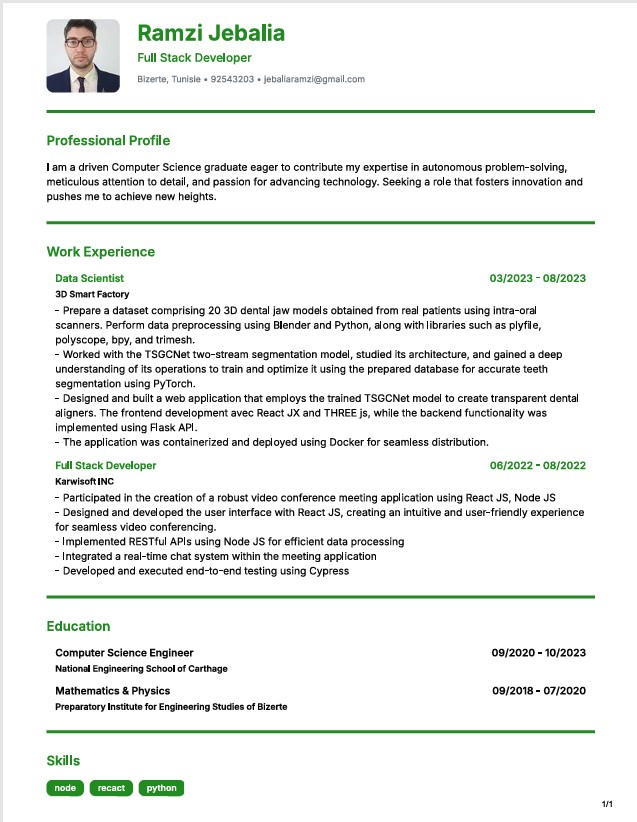
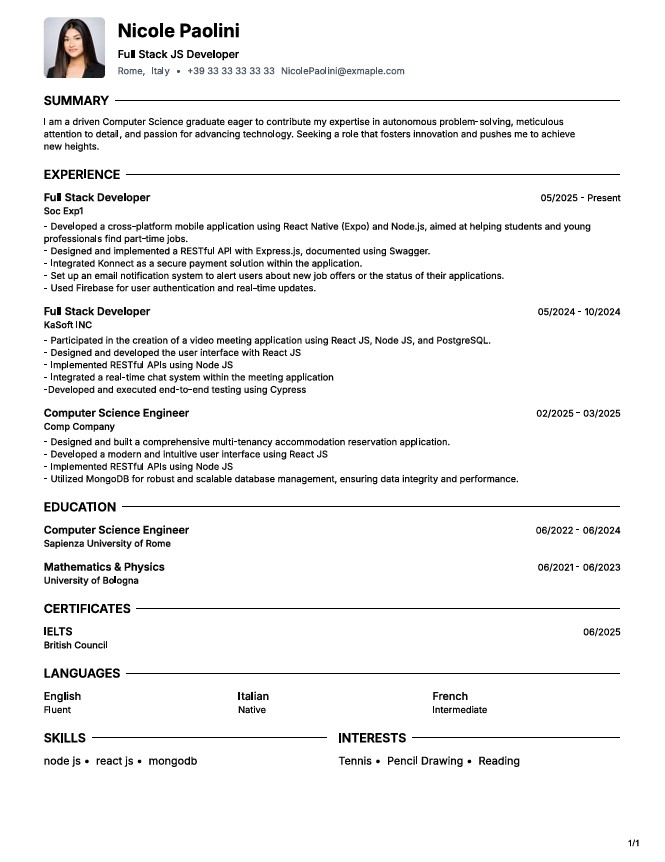
implement sections for certificates, languages, and skills/interests in ResumePreview component; refactor template styles and update layout for better presentation

Changed region(s): [[0.0, 0.0, 1.0, 1.0]]

diff --git a/aicvbuilder/components/ResumePreviewe.tsx b/aicvbuilder/components/ResumePreviewe.tsx
@@ -14,7 +14,18 @@ interface ResumePreviewProps {
     className?: string
 }
 
-const templateStyles = {
+type TemplateStyle = {
+    container: string;
+    header: string;
+    section: string;
+    sectionTitle: string;
+    sectionDivider: string;
+    sectionTitleWithLine?: string;
+    sectionTitleText?: string;
+    sectionTitleLine?: string;
+}
+
+const templateStyles: Record<string, TemplateStyle> = {
     modern: {
         container: "bg-white text-black",
         header: "flex items-center gap-4",
@@ -28,7 +39,181 @@ const templateStyles = {
         section: "space-y-4",
         sectionTitle: "text-base font-semibold mb-2",
         sectionDivider: "hidden",
+        sectionTitleWithLine: "flex items-center gap-2 mb-2",
+        sectionTitleText: "text-base font-semibold",
+        sectionTitleLine: "flex-grow border-t",
     }
+}
+
+function CertificatesSection({resumeData, template}: ResumePreviewSectionProps) {
+    const {certificates, colorHex} = resumeData
+    const styles = templateStyles[template]
+    const certificatesNotEmpty = certificates?.filter(
+        (cert) => Object.values(cert).filter(Boolean).length > 0
+    )
+
+    if(!certificatesNotEmpty?.length) return null
+
+    return (
+        <div className="break-inside-avoid">
+            <div className={template === 'two-column' ? styles.sectionTitleWithLine : "flex items-center mb-2"}>
+                <h3 className={template === 'two-column' ? styles.sectionTitleText : styles.sectionTitle} style={{color: colorHex}}>CERTIFICATES</h3>
+                <div className={template === 'two-column' ? styles.sectionTitleLine : styles.sectionDivider} style={{borderColor: colorHex}}></div>
+            </div>
+            <div className="space-y-3">
+                {certificatesNotEmpty.map((cert, index) => (
+                    <div key={index} className="break-inside-avoid">
+                        <div className="flex justify-between items-baseline">
+                            <h4 className="text-sm font-semibold">{cert.name}</h4>
+                            {cert.date && (
+                                <span className="text-xs" style={{color: colorHex}}>
+                                    {formatDate(cert.date, "MM/yyyy")}
+                                </span>
+                            )}
+                        </div>
+                        <p className="text-xs font-medium">{cert.issuer}</p>
+                        {cert.url && (
+                            <a href={cert.url} target="_blank" rel="noopener noreferrer" className="text-xs text-blue-600 hover:underline">
+                                View Certificate
+                            </a>
+                        )}
+                    </div>
+                ))}
+            </div>
+        </div>
+    )
+}
+
+function LanguagesSection({resumeData, template}: ResumePreviewSectionProps) {
+    const {languages, colorHex} = resumeData
+    const styles = templateStyles[template]
+    const languagesNotEmpty = languages?.filter(
+        (lang) => Object.values(lang).filter(Boolean).length > 0
+    )
+
+    if(!languagesNotEmpty?.length) return null
+
+    return (
+        <div className="break-inside-avoid">
+            <div className={template === 'two-column' ? styles.sectionTitleWithLine : "flex items-center mb-2"}>
+                <h3 className={template === 'two-column' ? styles.sectionTitleText : styles.sectionTitle} style={{color: colorHex}}>LANGUAGES</h3>
+                <div className={template === 'two-column' ? styles.sectionTitleLine : styles.sectionDivider} style={{borderColor: colorHex}}></div>
+            </div>
+            <div className={template === 'two-column' ? "space-y-1" : "grid grid-cols-3 gap-2"}>
+                {languagesNotEmpty.map((lang, index) => (
+                    <div key={index} className={template === 'two-column' ? "flex justify-between items-center" : "flex flex-col"}>
+                        <span className="text-sm font-medium">{lang.name}</span>
+                        <span className="text-xs" style={{color: colorHex}}>{lang.level}</span>
+                    </div>
+                ))}
+            </div>
+        </div>
+    )
+}
+
+function SkillsAndInterestsSection({resumeData, template}: ResumePreviewSectionProps) {
+    const {skills = [], interests = [], colorHex} = resumeData
+    const styles = templateStyles[template]
+    const hasSkills = skills.length > 0
+    const hasInterests = interests.length > 0
+
+    if(!hasSkills && !hasInterests) return null
+
+    if (template === 'two-column') {
+        return (
+            <div className="break-inside-avoid space-y-4">
+                {/* Skills Section */}
+                {hasSkills && (
+                    <div>
+                        <div className={styles.sectionTitleWithLine}>
+                            <h3 className={styles.sectionTitleText} style={{color: colorHex}}>SKILLS</h3>
+                            <div className={styles.sectionTitleLine} style={{borderColor: colorHex}}></div>
+                        </div>
+                        <div className="flex flex-wrap gap-2">
+                            {skills.map((skill, index) => (
+                                <span 
+                                    key={index} 
+                                    className="text-sm text-black"
+                                >
+                                    {skill}{index < skills.length - 1 ? " •" : ""}
+                                </span>
+                            ))}
+                        </div>
+                    </div>
+                )}
+
+                {/* Interests Section */}
+                {hasInterests && (
+                    <div>
+                        <div className={styles.sectionTitleWithLine}>
+                            <h3 className={styles.sectionTitleText} style={{color: colorHex}}>INTERESTS</h3>
+                            <div className={styles.sectionTitleLine} style={{borderColor: colorHex}}></div>
+                        </div>
+                        <div className="flex flex-wrap gap-2">
+                            {interests.map((interest, index) => (
+                                <span 
+                                    key={index} 
+                                    className="text-sm text-black"
+                                >
+                                    {interest}{index < interests.length - 1 ? " •" : ""}
+                                </span>
+                            ))}
+                        </div>
+                    </div>
+                )}
+            </div>
+        )
+    }
+
+    return (
+        <div className="break-inside-avoid">
+            <div className="grid grid-cols-2 gap-4">
+                {/* Skills Column */}
+                <div>
+                    {hasSkills && (
+                        <>
+                            <div className="flex items-center mb-2">
+                                <h3 className={styles.sectionTitle} style={{color: colorHex}}>SKILLS</h3>
+                                <div className={styles.sectionDivider} style={{borderColor: colorHex}}></div>
+                            </div>
+                            <div className="flex flex-wrap gap-2">
+                                {skills.map((skill, index) => (
+                                    <span 
+                                        key={index} 
+                                        className="text-sm text-black"
+                                    >
+                                        {skill}{index < skills.length - 1 ? " •" : ""}
+                                    </span>
+                                ))}
+                            </div>
+                        </>
+                    )}
+                </div>
+
+                {/* Interests Column */}
+                <div>
+                    {hasInterests && (
+                        <>
+                            <div className="flex items-center mb-2">
+                                <h3 className={styles.sectionTitle} style={{color: colorHex}}>INTERESTS</h3>
+                                <div className={styles.sectionDivider} style={{borderColor: colorHex}}></div>
+                            </div>
+                            <div className="flex flex-wrap gap-2">
+                                {interests.map((interest, index) => (
+                                    <span 
+                                        key={index} 
+                                        className="text-sm text-black"
+                                    >
+                                        {interest}{index < interests.length - 1 ? " •" : ""}
+                                    </span>
+                                ))}
+                            </div>
+                        </>
+                    )}
+                </div>
+            </div>
+        </div>
+    )
 }
 
 export default function ResumePreview({resumeData, contentRef, className}: ResumePreviewProps) {
@@ -50,7 +235,8 @@ export default function ResumePreview({resumeData, contentRef, className}: Resum
                         {/* Left Column */}
                         <div className="w-1/3 space-y-4">
                             <PersonalInfoHeader resumeData={resumeData} template={template}/>
-                            <SkillsSection resumeData={resumeData} template={template}/>
+                            <LanguagesSection resumeData={resumeData} template={template}/>
+                            <SkillsAndInterestsSection resumeData={resumeData} template={template}/>
                         </div>
                         
                         {/* Right Column */}
@@ -58,6 +244,7 @@ export default function ResumePreview({resumeData, contentRef, className}: Resum
                             <SummarySection resumeData={resumeData} template={template}/>
                             <WorkExperienceSection resumeData={resumeData} template={template}/>
                             <EducationSection resumeData={resumeData} template={template}/>
+                            <CertificatesSection resumeData={resumeData} template={template}/>
                         </div>
                     </div>
                 ) : (
@@ -67,7 +254,9 @@ export default function ResumePreview({resumeData, contentRef, className}: Resum
                             <SummarySection resumeData={resumeData} template={template}/>
                             <WorkExperienceSection resumeData={resumeData} template={template}/>
                             <EducationSection resumeData={resumeData} template={template}/>
-                            <SkillsSection resumeData={resumeData} template={template}/>
+                            <CertificatesSection resumeData={resumeData} template={template}/>
+                            <LanguagesSection resumeData={resumeData} template={template}/>
+                            <SkillsAndInterestsSection resumeData={resumeData} template={template}/>
                         </div>
                     </>
                 )}
@@ -136,9 +325,9 @@ function SummarySection({resumeData, template}: ResumePreviewSectionProps) {
 
     return (
         <div className="break-inside-avoid">
-            <div className="flex items-center mb-2">
-                <h3 className={styles.sectionTitle} style={{color: colorHex}}>SUMMARY</h3>
-                <div className={styles.sectionDivider} style={{borderColor: colorHex}}></div>
+            <div className={template === 'two-column' ? styles.sectionTitleWithLine : "flex items-center mb-2"}>
+                <h3 className={template === 'two-column' ? styles.sectionTitleText : styles.sectionTitle} style={{color: colorHex}}>SUMMARY</h3>
+                <div className={template === 'two-column' ? styles.sectionTitleLine : styles.sectionDivider} style={{borderColor: colorHex}}></div>
             </div>
             <p className="text-xs text-justify whitespace-pre-line">{summary}</p>
         </div>
@@ -156,9 +345,9 @@ function WorkExperienceSection({resumeData, template}: ResumePreviewSectionProps
 
     return (
         <div className="break-inside-avoid">
-            <div className="flex items-center mb-2">
-                <h3 className={styles.sectionTitle} style={{color: colorHex}}>EXPERIENCE</h3>
-                <div className={styles.sectionDivider} style={{borderColor: colorHex}}></div>
+            <div className={template === 'two-column' ? styles.sectionTitleWithLine : "flex items-center mb-2"}>
+                <h3 className={template === 'two-column' ? styles.sectionTitleText : styles.sectionTitle} style={{color: colorHex}}>EXPERIENCE</h3>
+                <div className={template === 'two-column' ? styles.sectionTitleLine : styles.sectionDivider} style={{borderColor: colorHex}}></div>
             </div>
             <div className="space-y-3">
                 {workExperiencesNotEmpty.map((exp, index) => (
@@ -192,9 +381,9 @@ function EducationSection({resumeData, template}: ResumePreviewSectionProps) {
 
     return (
         <div className="break-inside-avoid">
-            <div className="flex items-center mb-2">
-                <h3 className={styles.sectionTitle} style={{color: colorHex}}>EDUCATION</h3>
-                <div className={styles.sectionDivider} style={{borderColor: colorHex}}></div>
+            <div className={template === 'two-column' ? styles.sectionTitleWithLine : "flex items-center mb-2"}>
+                <h3 className={template === 'two-column' ? styles.sectionTitleText : styles.sectionTitle} style={{color: colorHex}}>EDUCATION</h3>
+                <div className={template === 'two-column' ? styles.sectionTitleLine : styles.sectionDivider} style={{borderColor: colorHex}}></div>
             </div>
             <div className="space-y-3">
                 {educationsNotEmpty.map((edu, index) => (
@@ -209,40 +398,6 @@ function EducationSection({resumeData, template}: ResumePreviewSectionProps) {
                         </div>
                         <p className="text-xs font-medium">{edu.school}</p>
                     </div>
-                ))}
-            </div>
-        </div>
-    )
-}
-
-function SkillsSection({resumeData, template}: ResumePreviewSectionProps) {
-    const {skills, colorHex, borderStyle} = resumeData
-    const styles = templateStyles[template]
-    if(!skills?.length) return null
-
-    return (
-        <div className="break-inside-avoid">
-            <div className="flex items-center mb-2">
-                <h3 className={styles.sectionTitle} style={{color: colorHex}}>SKILLS</h3>
-                <div className={styles.sectionDivider} style={{borderColor: colorHex}}></div>
-            </div>
-            <div className="flex flex-wrap gap-2">
-                {skills.map((skill, index) => (
-                    <Badge 
-                        key={index} 
-                        className="text-white rounded-md"
-                        style={{
-                            backgroundColor: colorHex,
-                            borderRadius: 
-                                borderStyle === BorderStyles.SQUARE 
-                                    ? "0px"
-                                    : borderStyle === BorderStyles.CIRCLE
-                                    ? "9999px"
-                                    : "8px"
-                        }}
-                    >
-                        {skill}
-                    </Badge>
                 ))}
             </div>
         </div>
